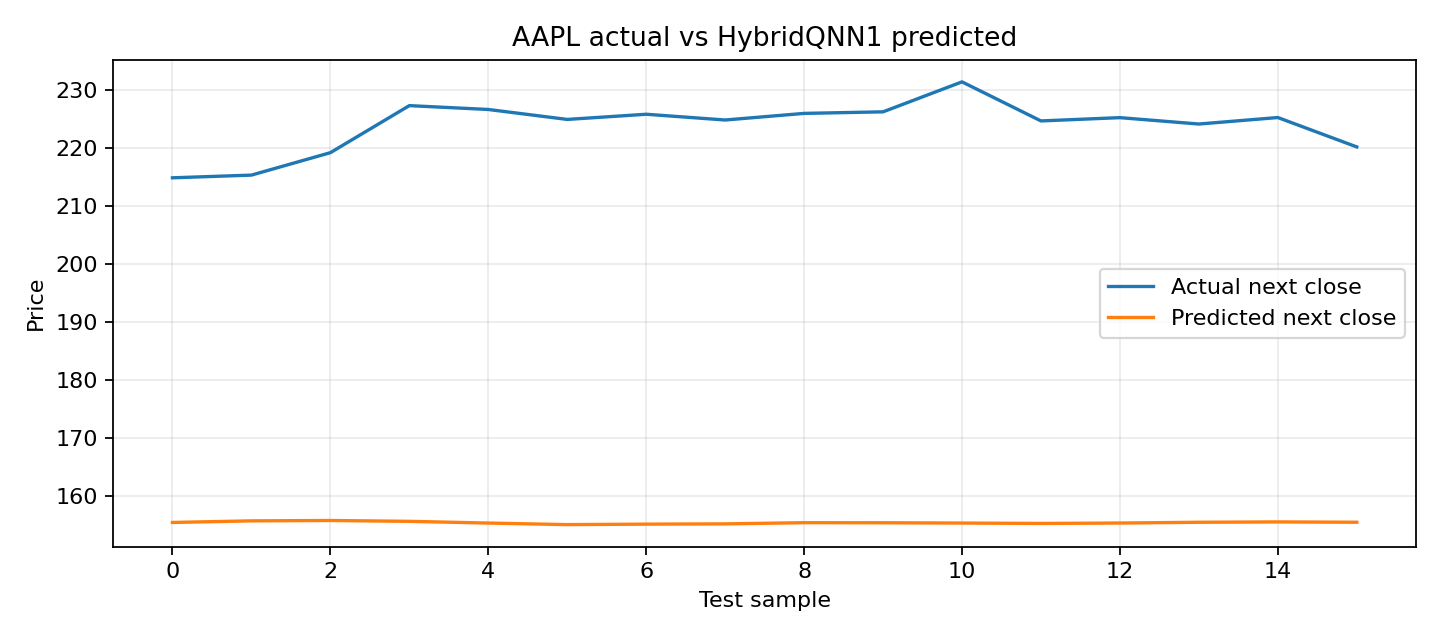
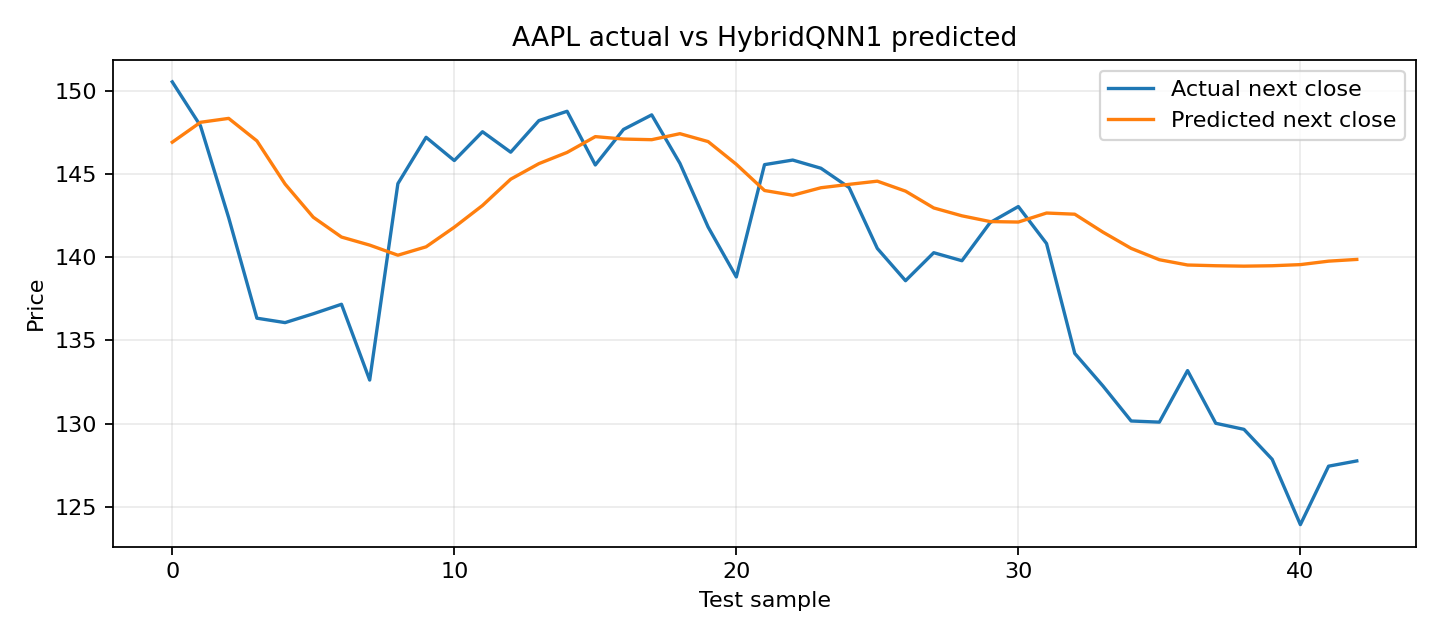
fix(qnn_pipeline): use cuda for qnn, increased epochs

diff --git a/custom_qnn_financial_pipeline.py b/custom_qnn_financial_pipeline.py
@@ -539,13 +539,17 @@ def create_torch_qnn_layer(
     qnn: EstimatorQNN,
     seed: int = 42,
     init_scale: float = 0.1,
+    device: torch.device | None = None,
 ) -> TorchConnector:
     """Wrap an EstimatorQNN in a PyTorch-compatible trainable layer."""
 
     rng = np.random.default_rng(seed)
     initial_weights = init_scale * rng.uniform(-1.0, 1.0, size=qnn.num_weights)
-    return TorchConnector(qnn, initial_weights=initial_weights)
-
+    connector = TorchConnector(qnn, initial_weights=initial_weights)
+    if device is None:
+        device = resolve_torch_device()
+    connector.to(device)
+    return connector
 
 def scaled_target_to_expectation(y_scaled: np.ndarray) -> np.ndarray:
     """Map MinMax-scaled target values from [0, 1] to QNN range [-1, 1]."""
@@ -564,27 +568,29 @@ def run_dummy_sanity_test(
     num_layers: int = DEFAULT_NUM_LAYERS,
     learning_rate: float = 0.05,
     seed: int = 42,
+    device: torch.device | None = None,
 ) -> dict[str, object]:
-    """Run one forward/backward/optimizer step on dummy data."""
-
+    """Run one forward/backward/optimizer step on dummy data using GPU when available."""
     torch.manual_seed(seed)
     np.random.seed(seed)
+    if device is None:
+        device = resolve_torch_device()
     circuit, input_params, weight_params = build_custom_qnn_circuit(num_qubits, num_layers)
     qnn = create_estimator_qnn(circuit, input_params, weight_params, input_gradients=True)
-    qnn_layer = create_torch_qnn_layer(qnn, seed=seed)
+    qnn_layer = create_torch_qnn_layer(qnn, seed=seed, device=device)
 
-    x = torch.rand(1, len(input_params), dtype=torch.float32)
-    y = torch.tensor([[0.25]], dtype=torch.float32)
+    x = torch.rand(1, len(input_params), dtype=torch.float32, device=device)
+    y = torch.tensor([[0.25]], dtype=torch.float32, device=device)
     loss_fn = nn.MSELoss()
     optimizer = torch.optim.Adam(qnn_layer.parameters(), lr=learning_rate)
 
-    before_weights = qnn_layer.weight.detach().clone()
+    before_weights = qnn_layer.weight.detach().cpu().clone()
     pred_before = qnn_layer(x).view_as(y)
     loss_before = loss_fn(pred_before, y)
     optimizer.zero_grad()
     loss_before.backward()
     optimizer.step()
-    after_weights = qnn_layer.weight.detach().clone()
+    after_weights = qnn_layer.weight.detach().cpu().clone()
 
     with torch.no_grad():
         pred_after = qnn_layer(x).view_as(y)
@@ -770,8 +776,8 @@ def create_supervised_sequences(
 
 def prepare_financial_dataset(
     symbol: str = "AAPL",
-    start: str = "2018-01-01",
-    end: str | None = None,
+    start: str = "2022-01-01",
+    end: str | None= "2023-01-01",
     num_qubits: int = DEFAULT_NUM_QUBITS,
     window_size: int = 10,
     train_ratio: float = 0.8,
@@ -928,7 +934,7 @@ def evaluate_naive_previous_close(dataset: FinancialDataset) -> dict[str, object
 class LSTMRegressor(nn.Module):
     """Small reproducible PyTorch LSTM baseline for price regression."""
 
-    def __init__(self, input_size: int, hidden_size: int = 32, num_layers: int = 1):
+    def __init__(self, input_size: int, hidden_size: int = 100, num_layers: int = 5):
         super().__init__()
         self.lstm = nn.LSTM(input_size, hidden_size, num_layers=num_layers, batch_first=True)
         self.head = nn.Linear(hidden_size, 1)
@@ -943,7 +949,8 @@ def train_lstm_baseline(
     epochs: int = 20,
     batch_size: int = 32,
     learning_rate: float = 1e-3,
-    hidden_size: int = 32,
+    hidden_size: int = 100,
+    num_layers: int = 5,
     seed: int = 42,
     val_ratio: float = 0.15,
     patience: int = 5,
@@ -954,7 +961,7 @@ def train_lstm_baseline(
 
     torch.manual_seed(seed)
     device = resolve_torch_device() if device is None else device
-    model = LSTMRegressor(input_size=dataset.train_seq_x.shape[-1], hidden_size=hidden_size).to(device)
+    model = LSTMRegressor(input_size=dataset.train_seq_x.shape[-1], hidden_size=hidden_size, num_layers=num_layers).to(device)
     optimizer = torch.optim.Adam(model.parameters(), lr=learning_rate)
     scheduler = ReduceLROnPlateau(optimizer, mode="min", factor=0.5, patience=2)
     loss_fn = nn.MSELoss()
@@ -976,7 +983,8 @@ def train_lstm_baseline(
     best_val = float("inf")
     patience_count = 0
     start_time = time.perf_counter()
-    for _ in range(epochs):
+    print(f"Training LSTM started for {epochs} epochs...")
+    for epoch in range(epochs):
         model.train()
         epoch_losses: list[float] = []
         for batch_x, batch_y in loader:
@@ -1000,6 +1008,7 @@ def train_lstm_baseline(
         train_losses.append(train_loss)
         losses.append(val_loss)
         scheduler.step(val_loss)
+        print(f"Epoch {epoch + 1}/{epochs} - Train loss: {train_loss:.4f} - Val loss: {val_loss:.4f}")
         if val_loss < best_val:
             best_val = val_loss
             best_state = {key: value.detach().cpu().clone() for key, value in model.state_dict().items()}
@@ -1007,6 +1016,7 @@ def train_lstm_baseline(
         else:
             patience_count += 1
             if patience_count >= patience:
+                print(f"Early stopping triggered after {epoch + 1} epochs.")
                 break
     training_time = time.perf_counter() - start_time
     if best_state is not None:
@@ -1042,14 +1052,16 @@ def train_standalone_qnn(
     val_ratio: float = 0.15,
     patience: int = 3,
     gradient_clip: float = 1.0,
+    device: torch.device | None = None,
 ) -> tuple[TorchConnector, dict[str, object]]:
-    """Train the custom circuit directly as a one-output QNN regressor."""
-
+    """Train the custom circuit directly as a one-output QNN regressor using GPU when available."""
     torch.manual_seed(seed)
     np.random.seed(seed)
+    if device is None:
+        device = resolve_torch_device()
     circuit, input_params, weight_params = build_custom_qnn_circuit(num_qubits=dataset.train_qnn_x.shape[1])
     qnn = create_estimator_qnn(circuit, input_params, weight_params, input_gradients=True)
-    model = create_torch_qnn_layer(qnn, seed=seed)
+    model = create_torch_qnn_layer(qnn, seed=seed, device=device)
     optimizer = torch.optim.Adam(model.parameters(), lr=learning_rate)
     scheduler = ReduceLROnPlateau(optimizer, mode="min", factor=0.5, patience=1)
     loss_fn = nn.MSELoss()
@@ -1068,8 +1080,8 @@ def train_standalone_qnn(
         batch_size=batch_size,
         shuffle=False,
     )
-    val_x_t = torch.tensor(val_x, dtype=torch.float32)
-    val_y_t = torch.tensor(val_y, dtype=torch.float32)
+    val_x_t = torch.tensor(val_x, dtype=torch.float32, device=device)
+    val_y_t = torch.tensor(val_y, dtype=torch.float32, device=device)
 
     losses: list[float] = []
     train_losses: list[float] = []
@@ -1077,10 +1089,14 @@ def train_standalone_qnn(
     best_val = float("inf")
     patience_count = 0
     start_time = time.perf_counter()
-    for _ in range(epochs):
+    print(f"Training standalone QNN started for {epochs} epochs on {device}...")
+    model.train()
+    for epoch in range(epochs):
         model.train()
         epoch_losses: list[float] = []
         for batch_x, batch_y in loader:
+            batch_x = batch_x.to(device)
+            batch_y = batch_y.to(device)
             optimizer.zero_grad()
             pred = model(batch_x).view_as(batch_y)
             loss = loss_fn(pred, batch_y)
@@ -1099,6 +1115,7 @@ def train_standalone_qnn(
         train_losses.append(train_loss)
         losses.append(val_loss)
         scheduler.step(val_loss)
+        print(f"Epoch {epoch + 1}/{epochs} - Train loss: {train_loss:.4f} - Val loss: {val_loss:.4f}")
         if val_loss < best_val:
             best_val = val_loss
             best_state = {key: value.detach().cpu().clone() for key, value in model.state_dict().items()}
@@ -1106,6 +1123,7 @@ def train_standalone_qnn(
         else:
             patience_count += 1
             if patience_count >= patience:
+                print(f"Early stopping triggered after {epoch + 1} epochs.")
                 break
     training_time = time.perf_counter() - start_time
     if best_state is not None:
@@ -1114,7 +1132,7 @@ def train_standalone_qnn(
     model.eval()
     infer_start = time.perf_counter()
     with torch.no_grad():
-        pred_expectation = model(torch.tensor(dataset.test_qnn_x, dtype=torch.float32)).numpy()
+        pred_expectation = model(torch.tensor(dataset.test_qnn_x, dtype=torch.float32, device=device)).cpu().numpy()
     inference_time = time.perf_counter() - infer_start
     pred_scaled = expectation_to_scaled_target(pred_expectation)
     pred_price = inverse_target(dataset, pred_scaled)
@@ -1129,7 +1147,7 @@ def train_standalone_qnn(
         "Inference time": inference_time,
         "Parameter count": qnn.num_weights,
         "Circuit depth": circuit.depth(),
-        "Device": "cpu",
+        "Device": str(device),
     }
     return model, history
 
@@ -1160,18 +1178,21 @@ def build_hybrid_qnn1(
     qnn_input_dim: int = DEFAULT_NUM_QUBITS,
     hidden_size: int = 32,
     seed: int = 42,
+    device: torch.device | None = None,
 ) -> tuple[HybridQNN1, QuantumCircuit]:
-    """Create the HybridQNN1 model skeleton."""
-
+    """Create the HybridQNN1 model skeleton and place QNN layer on device."""
+    if device is None:
+        device = resolve_torch_device()
     circuit, input_params, weight_params = build_custom_qnn_circuit(num_qubits=qnn_input_dim)
     qnn = create_estimator_qnn(circuit, input_params, weight_params, input_gradients=True)
-    qnn_layer = create_torch_qnn_layer(qnn, seed=seed)
+    qnn_layer = create_torch_qnn_layer(qnn, seed=seed, device=device)
     model = HybridQNN1(
         qnn_layer=qnn_layer,
         qnn_input_dim=len(input_params),
         sequence_feature_dim=sequence_feature_dim,
         hidden_size=hidden_size,
     )
+    model.to(device)
     return model, circuit
 
 
@@ -1185,16 +1206,19 @@ def train_hybrid_qnn1(
     val_ratio: float = 0.15,
     patience: int = 3,
     gradient_clip: float = 1.0,
+    device: torch.device | None = None,
 ) -> tuple[HybridQNN1, dict[str, object]]:
-    """Train HybridQNN1: LSTM sequential processing plus QNN regression layer."""
-
+    """Train HybridQNN1: LSTM sequential processing plus QNN regression layer using GPU when available."""
     torch.manual_seed(seed)
     np.random.seed(seed)
+    if device is None:
+        device = resolve_torch_device()
     model, circuit = build_hybrid_qnn1(
         sequence_feature_dim=dataset.train_seq_x.shape[-1],
         qnn_input_dim=dataset.train_qnn_x.shape[1],
         hidden_size=hidden_size,
         seed=seed,
+        device=device,
     )
     optimizer = torch.optim.Adam(model.parameters(), lr=learning_rate)
     scheduler = ReduceLROnPlateau(optimizer, mode="min", factor=0.5, patience=1)
@@ -1213,8 +1237,8 @@ def train_hybrid_qnn1(
         batch_size=batch_size,
         shuffle=False,
     )
-    val_x_t = torch.tensor(val_x, dtype=torch.float32)
-    val_y_t = torch.tensor(val_y, dtype=torch.float32)
+    val_x_t = torch.tensor(val_x, dtype=torch.float32, device=device)
+    val_y_t = torch.tensor(val_y, dtype=torch.float32, device=device)
 
     losses: list[float] = []
     train_losses: list[float] = []
@@ -1222,10 +1246,13 @@ def train_hybrid_qnn1(
     best_val = float("inf")
     patience_count = 0
     start_time = time.perf_counter()
-    for _ in range(epochs):
+    print(f"Training Hybrid QNN1 started for {epochs} epochs on {device}...")
+    for epoch in range(epochs):
         model.train()
         epoch_losses: list[float] = []
         for batch_x, batch_y in loader:
+            batch_x = batch_x.to(device)
+            batch_y = batch_y.to(device)
             optimizer.zero_grad()
             pred = model(batch_x).view_as(batch_y)
             loss = loss_fn(pred, batch_y)
@@ -1244,6 +1271,7 @@ def train_hybrid_qnn1(
         train_losses.append(train_loss)
         losses.append(val_loss)
         scheduler.step(val_loss)
+        print(f"Epoch {epoch + 1}/{epochs} - Train loss: {train_loss:.4f} - Val loss: {val_loss:.4f}")
         if val_loss < best_val:
             best_val = val_loss
             best_state = {key: value.detach().cpu().clone() for key, value in model.state_dict().items()}
@@ -1251,6 +1279,7 @@ def train_hybrid_qnn1(
         else:
             patience_count += 1
             if patience_count >= patience:
+                print(f"Early stopping triggered after {epoch + 1} epochs.")
                 break
     training_time = time.perf_counter() - start_time
     if best_state is not None:
@@ -1259,7 +1288,7 @@ def train_hybrid_qnn1(
     model.eval()
     infer_start = time.perf_counter()
     with torch.no_grad():
-        pred_expectation = model(torch.tensor(dataset.test_seq_x, dtype=torch.float32)).numpy()
+        pred_expectation = model(torch.tensor(dataset.test_seq_x, dtype=torch.float32, device=device)).cpu().numpy()
     inference_time = time.perf_counter() - infer_start
     pred_scaled = expectation_to_scaled_target(pred_expectation)
     pred_price = inverse_target(dataset, pred_scaled)
@@ -1274,7 +1303,7 @@ def train_hybrid_qnn1(
         "Inference time": inference_time,
         "Parameter count": count_torch_parameters(model),
         "Circuit depth": circuit.depth(),
-        "Device": "cpu",
+        "Device": str(device),
     }
     return model, history
 
@@ -1409,10 +1438,11 @@ def run_aapl_smoke_pipeline(
     )
     original_depth = build_original_custom_qnn_circuit().depth()
 
+    device = resolve_torch_device()
     naive = evaluate_naive_previous_close(dataset)
-    _, lstm_history = train_lstm_baseline(dataset, epochs=epochs_lstm)
-    _, qnn_history = train_standalone_qnn(dataset, epochs=epochs_qnn)
-    _, hybrid_history = train_hybrid_qnn1(dataset, epochs=epochs_hybrid)
+    _, lstm_history = train_lstm_baseline(dataset, epochs=epochs_lstm, device=device)
+    _, qnn_history = train_standalone_qnn(dataset, epochs=epochs_qnn, device=device)
+    _, hybrid_history = train_hybrid_qnn1(dataset, epochs=epochs_hybrid, device=device)
 
     histories = {
         "Classical LSTM": lstm_history,
@@ -1527,9 +1557,9 @@ def main() -> None:
     parser.add_argument("--dummy", action="store_true", help="Run a one-step dummy QNN training sanity test.")
     parser.add_argument("--aapl-smoke", action="store_true", help="Run a small AAPL smoke pipeline.")
     parser.add_argument("--full", action="store_true", help="Run the full AAPL regression pipeline.")
-    parser.add_argument("--epochs-lstm", type=int, default=3, help="Epochs for the AAPL smoke LSTM.")
-    parser.add_argument("--epochs-qnn", type=int, default=1, help="Epochs for the AAPL smoke standalone QNN.")
-    parser.add_argument("--epochs-hybrid", type=int, default=1, help="Epochs for the AAPL smoke HybridQNN1.")
+    parser.add_argument("--epochs-lstm", type=int, default=20, help="Epochs for the AAPL smoke LSTM.")
+    parser.add_argument("--epochs-qnn", type=int, default=20, help="Epochs for the AAPL smoke standalone QNN.")
+    parser.add_argument("--epochs-hybrid", type=int, default=20, help="Epochs for the AAPL smoke HybridQNN1.")
     parser.add_argument("--max-train-samples", type=int, default=32, help="Max training samples for smoke runs.")
     parser.add_argument("--max-test-samples", type=int, default=16, help="Max test samples for smoke runs.")
     parser.add_argument("--output-dir", type=Path, default=DEFAULT_OUTPUT_DIR)
@@ -1538,7 +1568,7 @@ def main() -> None:
     if args.verify:
         verify_architecture_unchanged(output_dir=args.output_dir, draw=True)
     if args.dummy:
-        run_dummy_sanity_test()
+        run_dummy_sanity_test(device=resolve_torch_device())
     if args.aapl_smoke:
         run_aapl_smoke_pipeline(
             output_dir=args.output_dir,
